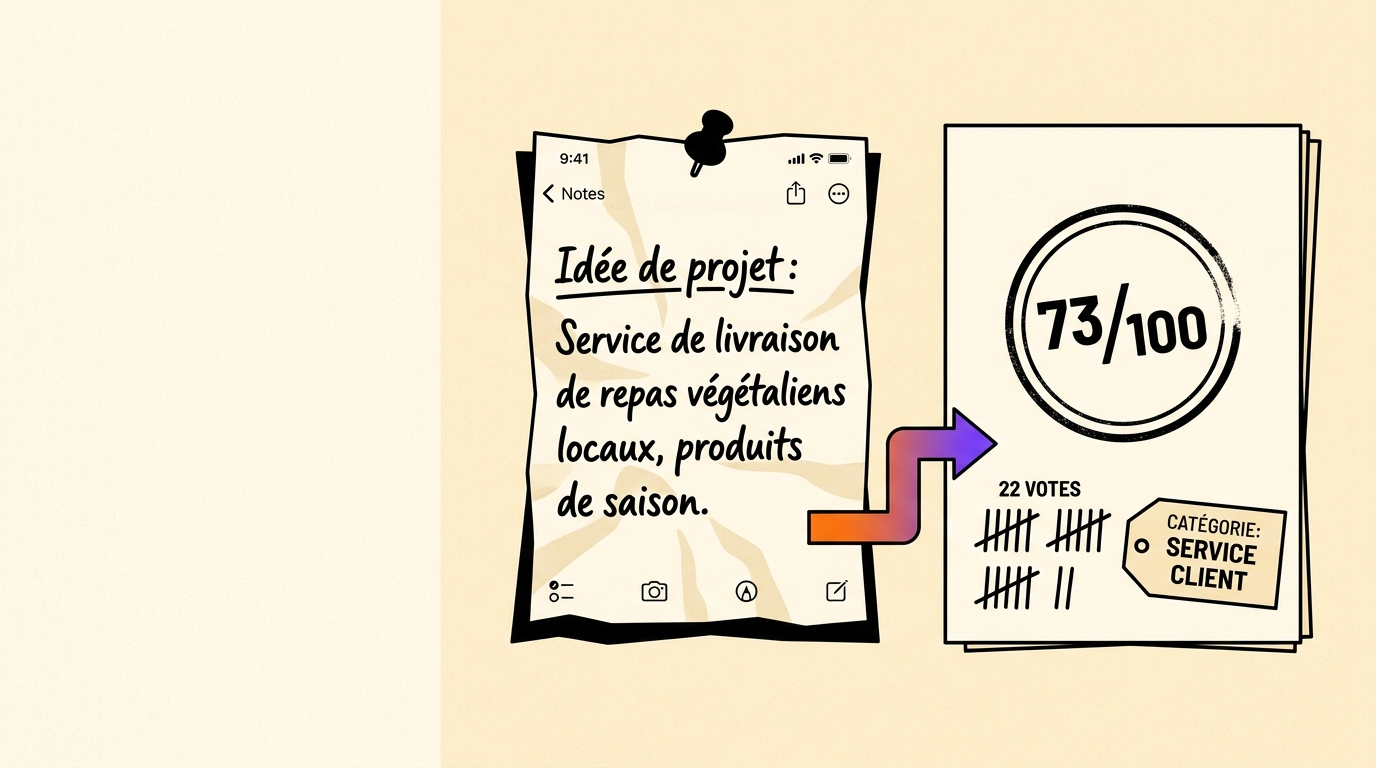
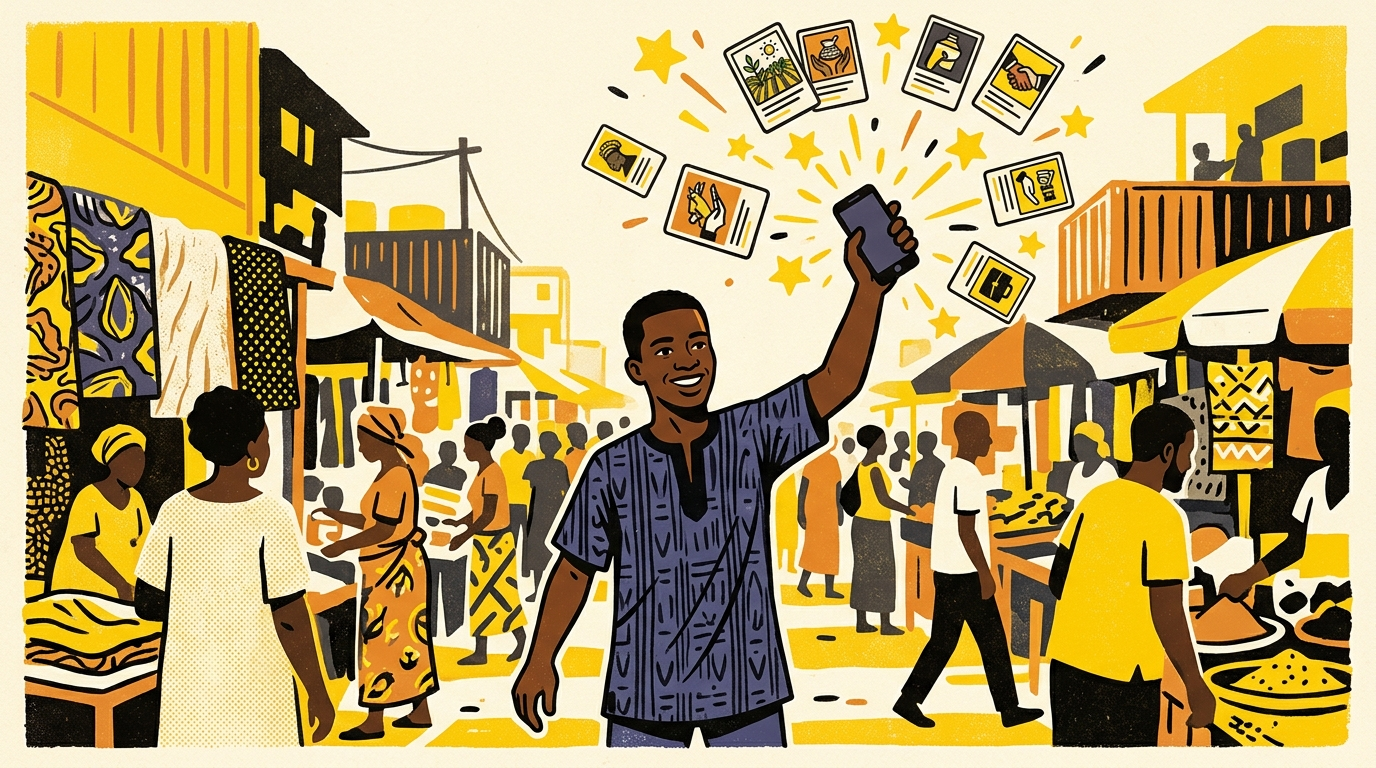
Rebranding DJOSSI : nom + voix humaine partout

diff --git a/src/app/layout.tsx b/src/app/layout.tsx
@@ -30,26 +30,26 @@ const spaceMono = Space_Mono({
   display: "swap",
 });
 
-const SITE_URL = "https://idee-de-business.vercel.app";
+const SITE_URL = "https://www.djossi.app";
 const DESCRIPTION =
-  "Partage ton idée de business, la communauté vote et commente, l'IA la structure, la note et l'illustre automatiquement.";
+  "Djossi : partage ton idée de business, la communauté vote, et trouve un vrai travail parmi les offres vérifiées chaque jour. Gratuit, en français.";
 
 export const metadata: Metadata = {
   metadataBase: new URL(SITE_URL),
-  title: { default: "Idées de Business", template: "%s · Idées de Business" },
+  title: { default: "Djossi", template: "%s · Djossi" },
   description: DESCRIPTION,
   openGraph: {
-    title: "Idées de Business",
+    title: "Djossi",
     description: DESCRIPTION,
     url: SITE_URL,
-    siteName: "Idées de Business",
+    siteName: "Djossi",
     locale: "fr_FR",
     type: "website",
-    images: [{ url: "/og-cover.jpg", width: 1376, height: 768, alt: "Idées de Business" }],
+    images: [{ url: "/og-cover.jpg", width: 1376, height: 768, alt: "Djossi" }],
   },
   twitter: {
     card: "summary_large_image",
-    title: "Idées de Business",
+    title: "Djossi",
     description: DESCRIPTION,
     images: ["/og-cover.jpg"],
   },
@@ -65,8 +65,8 @@ export default async function RootLayout({ children }: LayoutProps<"/">) {
         <footer className="border-t border-line py-8">
           <div className="mx-auto flex max-w-6xl flex-col gap-3 px-4 text-xs text-ink-3 sm:flex-row sm:items-center sm:justify-between">
             <p>
-              <span className="font-display font-bold text-ink-2">Idées de Business</span> — une idée brute, une
-              fiche, un vote. Fiches et illustrations générées par Gemini. La communauté a le dernier mot.
+              <span className="font-display font-bold text-ink-2">Djossi</span> — une idée brute, une
+              fiche, un vote, un vrai travail. Fait avec soin à Abidjan.
             </p>
             <nav aria-label="Pied de page" className="flex flex-wrap items-center gap-x-4 gap-y-1">
               {[

diff --git a/src/app/faq/page.tsx b/src/app/faq/page.tsx
@@ -9,7 +9,7 @@ import { AiTag } from "@/components/AiBadge";
 export const metadata: Metadata = {
   title: "Questions fréquentes",
   description:
-    "Mon idée est-elle protégée ? Que veut dire la note IA ? Qu'y a-t-il dans le dossier de démarrage ? Est-ce gratuit ? Les réponses, sans détour.",
+    "Mon idée est-elle protégée ? Que veut dire la note Djossi ? Qu'y a-t-il dans le dossier de démarrage ? Est-ce gratuit ? Les réponses, sans détour.",
 };
 
 type Faq = { q: string; a: ReactNode; plain: string };
@@ -88,11 +88,11 @@ const GROUPS: Group[] = [
   },
   {
     id: "note",
-    label: "La note IA",
+    label: "La note Djossi",
     title: "Que veut vraiment dire ce chiffre sur 100 ?",
     items: [
       {
-        q: "La note IA, c'est une validation de marché ?",
+        q: "La note Djossi, c'est une validation de marché ?",
         plain:
           "Non. C'est l'estimation d'un modèle de langage (Gemini) sur la qualité de ta présentation : est-ce clair, cohérent, complet ? Y a-t-il une cible, un problème, une façon de gagner de l'argent ? Elle ne sait pas si des gens paieront. Personne ne le sait avant d'avoir essayé. Une note élevée veut dire « bien expliqué », pas « bonne affaire ».",
         a: (
@@ -265,7 +265,7 @@ export default async function FaqPage() {
           Les questions qu&apos;on nous pose. <span className="hl">Les réponses sans détour.</span>
         </h1>
         <p className="mt-4 max-w-2xl text-base leading-relaxed text-ink-2">
-          Idées de Business est gratuit, public et propulsé par une IA qui peut se tromper. Voilà ce que ça
+          Djossi est gratuit et public. Derrière, une IA lit et range tout ce qui passe — elle peut se tromper, la communauté tranche. Voilà ce que ça
           implique, concrètement.
         </p>
         <nav aria-label="Sections" className="mt-6 flex flex-wrap gap-2">

diff --git a/src/components/ValidationGate.tsx b/src/components/ValidationGate.tsx
@@ -136,7 +136,7 @@ export default function ValidationGate({ idea, isOwner }: { idea: IdeaDetail; is
 
         {improvementTips.length > 0 && (
           <div>
-            <p className="label mb-2">Ce que l&apos;IA n&apos;a pas trouvé dans ta description</p>
+            <p className="label mb-2">Ce que Djossi n&apos;a pas bien compris</p>
             <DashList items={improvementTips} />
           </div>
         )}
@@ -146,8 +146,8 @@ export default function ValidationGate({ idea, isOwner }: { idea: IdeaDetail; is
             <VoiceRecorder
               minSeconds={10}
               idleTitle="Réponds à ces points à voix haute"
-              idleHint="10 secondes minimum. L'IA fusionne ta précision avec la description existante et recalcule la note."
-              busyLabel="L'IA retravaille ta fiche…"
+              idleHint="10 secondes minimum. Djossi mélange ta précision avec ta description et recalcule ta note."
+              busyLabel="Djossi retravaille ta fiche…"
               onRecorded={handleRefine}
             />
           </div>
@@ -209,7 +209,7 @@ export default function ValidationGate({ idea, isOwner }: { idea: IdeaDetail; is
             La génération n&apos;a pas abouti
           </h3>
           <p className="mt-1.5 text-sm text-ink-2">
-            Ça arrive quand le modèle est saturé. Rien n&apos;est perdu : ta fiche et ta note restent acquises.
+            Djossi a calé, ça arrive. Rien n&apos;est perdu : ta fiche et ta note restent acquises.
             {isOwner ? " Relance quand tu veux, ça prend jusqu'à 3 minutes." : ` Seul @${idea.authorPseudo} peut relancer.`}
           </p>
         </div>

diff --git a/src/app/ideas/new/page.tsx b/src/app/ideas/new/page.tsx
@@ -13,8 +13,8 @@ export const maxDuration = 60;
 
 const STEPS = [
   { who: "toi", title: "Tu la racontes à voix haute", text: "30 secondes minimum, sois verbeux. Tu peux aussi l'écrire si tu préfères." },
-  { who: "ia", title: "La machine la structure", text: "Cible, valeur, revenus, risques, premiers pas et une note sur 100. ~20 s." },
-  { who: "ia", title: "Elle reçoit son illustration", text: "Dessinée à partir de ton texte. ~30 s." },
+  { who: "ia", title: "Djossi la range et la note", text: "Cible, valeur, revenus, risques, premiers pas et une note sur 100. ~20 s." },
+  { who: "ia", title: "Djossi lui dessine son image", text: "Dessinée à partir de ton texte. ~30 s." },
   { who: "eux", title: "La communauté tranche", text: "Votes et réactions : c'est là que ça se valide (ou pas)." },
 ];
 
@@ -62,9 +62,8 @@ export default async function NewIdeaPage() {
         <p className="px-1 text-xs leading-relaxed text-ink-3">
           Une bonne description dit <span className="font-medium text-ink-2">pour qui</span>,{" "}
           <span className="font-medium text-ink-2">quel problème</span> et{" "}
-          <span className="font-medium text-ink-2">comment ça rapporte</span>. La machine note mieux ce
-          qu&apos;elle comprend bien — et une note moyenne n&apos;est pas un verdict, c&apos;est un point de départ
-          pour la discussion.
+          <span className="font-medium text-ink-2">comment ça rapporte</span>. Djossi comprend mieux quand
+          c&apos;est concret — et une note moyenne, c&apos;est juste un point de départ pour discuter.
         </p>
       </aside>
     </div>

diff --git a/src/components/AiPanel.tsx b/src/components/AiPanel.tsx
@@ -56,14 +56,14 @@ export default function AiPanel({ idea }: { idea: IdeaDetail }) {
           <AiTag />
           Fiche générée
         </h2>
-        <span className="text-xs text-ink-3">Gemini · estimation automatique</span>
+        <span className="text-xs text-ink-3">Djossi · avis automatique</span>
       </div>
 
       <div className="px-4 py-5 sm:px-6">
         {idea.aiStatus === "pending" && (
           <div className="grid gap-6 sm:grid-cols-[240px_1fr]" aria-live="polite">
             <div>
-              <p className="font-display text-lg font-bold leading-snug">La machine lit ton idée.</p>
+              <p className="font-display text-lg font-bold leading-snug">Djossi lit ton idée.</p>
               <p className="mt-1 text-sm text-ink-2">
                 Une vingtaine de secondes. La page se met à jour toute seule.
               </p>
@@ -102,7 +102,7 @@ export default function AiPanel({ idea }: { idea: IdeaDetail }) {
             <div className="min-w-0 flex-1 text-sm">
               <p className="font-semibold text-bad">L&apos;analyse n&apos;a pas abouti.</p>
               <p className="mt-0.5 text-ink-2">
-                Ça arrive quand le modèle est saturé. Relance-la, ça prend ~20 secondes.
+                Ça arrive, Djossi est un peu saturé là. Relance, ça prend ~20 secondes.
               </p>
               {idea.aiError && (
                 <p className="mt-1 truncate font-mono text-[11px] text-ink-3" title={idea.aiError}>

diff --git a/src/app/page.tsx b/src/app/page.tsx
@@ -13,7 +13,7 @@ import IdeaCard from "@/components/IdeaCard";
 export const dynamic = "force-dynamic";
 
 export const metadata: Metadata = {
-  title: { absolute: "Idées de Business — le GitHub des idées de business, en Côte d'Ivoire" },
+  title: { absolute: "Djossi — idées de business et offres d'emploi en Côte d'Ivoire" },
   description:
     "Raconte ton idée à voix haute en 30 secondes. L'IA la structure et la note sur 100, la communauté vote et réagit, et au-dessus de 70/100 tu débloques ton dossier de démarrage : landing page, architecture, flyer. Gratuit.",
 };
@@ -250,7 +250,7 @@ export default async function LandingPage() {
         <div>
           <p className="label flex items-center gap-2">
             <span className="inline-block h-2 w-2 rounded-full bg-sun ring-1 ring-ink" aria-hidden />
-            Le GitHub des idées de business · Côte d&apos;Ivoire
+            Djossi · idées & petits boulots · Côte d&apos;Ivoire
           </p>
           <h1 className="mt-4 font-display text-[2.6rem] font-bold leading-[1] tracking-tight sm:text-6xl lg:text-[4.25rem]">
             Ton idée mérite mieux qu&apos;une note dans ton téléphone.{" "}

diff --git a/src/components/Header.tsx b/src/components/Header.tsx
@@ -20,13 +20,11 @@ export default function Header({ user }: { user: SessionUser | null }) {
           <Link
             href={user ? "/ideas" : "/"}
             className="-mx-1 flex shrink-0 items-center gap-2.5 rounded-lg p-1"
-            aria-label="Idées de Business — accueil"
+            aria-label="Djossi — accueil"
           >
             <Logo className="h-8 w-8" />
-            {/* Sous 420 px, le mot ne tient pas à côté du lien "Explorer" et des
-                deux boutons de droite : la marque se réduit à son sigle. */}
             <span className="hidden font-display text-lg font-bold tracking-tight min-[26.25rem]:inline">
-              Idées<span className="hidden md:inline"> de Business</span>
+              Djossi
             </span>
           </Link>
 

diff --git a/src/app/ideas/[id]/site/page.tsx b/src/app/ideas/[id]/site/page.tsx
@@ -38,7 +38,7 @@ export default async function IdeaSitePage({ params }: { params: Params }) {
   return (
     <div style={categoryStyle(idea.categorySlug)}>
       <div className="rounded-2xl border border-dashed border-line bg-surface-2 px-4 py-2.5 text-center text-xs text-ink-3">
-        Page de démonstration générée par l&apos;IA à partir d&apos;une idée publiée sur Idées de Business — rien
+        Page de démonstration préparée par Djossi à partir d&apos;une idée publiée ici — rien
         n&apos;est enregistré ici. <Link href={`/ideas/${idea.id}`} className="font-medium text-ink underline underline-offset-4">Retour à la fiche</Link>
       </div>
 

diff --git a/src/app/ideas/new/NewIdeaForm.tsx b/src/app/ideas/new/NewIdeaForm.tsx
@@ -43,7 +43,7 @@ export default function NewIdeaForm({ categories }: { categories: Category[] }) 
   if (mode === "voice") {
     return (
       <div className="space-y-4">
-        <VoiceRecorder onRecorded={handleRecorded} busyLabel="L'IA transcrit ton idée…" />
+        <VoiceRecorder onRecorded={handleRecorded} busyLabel="Djossi t'écoute et écrit…" />
         <div className="flex items-center justify-center gap-3 text-xs text-ink-3">
           <span>Tu préfères écrire ?</span>
           <button type="button" onClick={() => setMode("manual")} className="btn btn-outline px-3 py-2 text-xs">

diff --git a/src/components/ForkButton.tsx b/src/components/ForkButton.tsx
@@ -42,7 +42,7 @@ export default function ForkButton({ ideaId, forkCount }: { ideaId: number; fork
           minSeconds={15}
           prompts={PROMPTS}
           idleTitle="Explique ta version, à voix haute"
-          idleHint="Dis comment TU ferais cette idée. Quinze secondes minimum — l'IA note et illustre ta propre fiche."
+          idleHint="Dis comment TU ferais cette idée. Quinze secondes minimum — Djossi note et illustre ta propre fiche."
           busyLabel="Création de ta version…"
           onRecorded={handleRecorded}
           onCancel={() => setOpen(false)}

diff --git a/src/components/VoiceRecorder.tsx b/src/components/VoiceRecorder.tsx
@@ -45,7 +45,7 @@ export default function VoiceRecorder({
   minSeconds = 30,
   prompts = DEFAULT_PROMPTS,
   idleTitle = "Raconte ton idée à voix haute",
-  idleHint = "Le problème, ta solution, pour qui, comment ça rapporte. Minimum 30 secondes — sois verbeux, plus tu donnes de détails, meilleure sera l'analyse.",
+  idleHint = "Le problème, ta solution, pour qui, comment ça rapporte. Minimum 30 secondes — sois verbeux, plus tu donnes de détails, mieux Djossi te comprend.",
   busyLabel = "Transcription en cours…",
   onRecorded,
   onCancel,

diff --git a/src/app/ideas/(feed)/page.tsx b/src/app/ideas/(feed)/page.tsx
@@ -12,7 +12,7 @@ export const dynamic = "force-dynamic";
 export const metadata: Metadata = {
   title: "Toutes les idées",
   description:
-    "Le fil des idées de business publiées par la communauté : notées par l'IA, soutenues par les votes, prêtes à être discutées ou reprises à sa façon.",
+    "Le fil Djossi : les idées des gens d'ici, notées par Djossi, poussées par vos votes. Lis, réagis, fais ta version à ta façon.",
 };
 
 type SearchParams = { cat?: string; q?: string; sort?: string };
